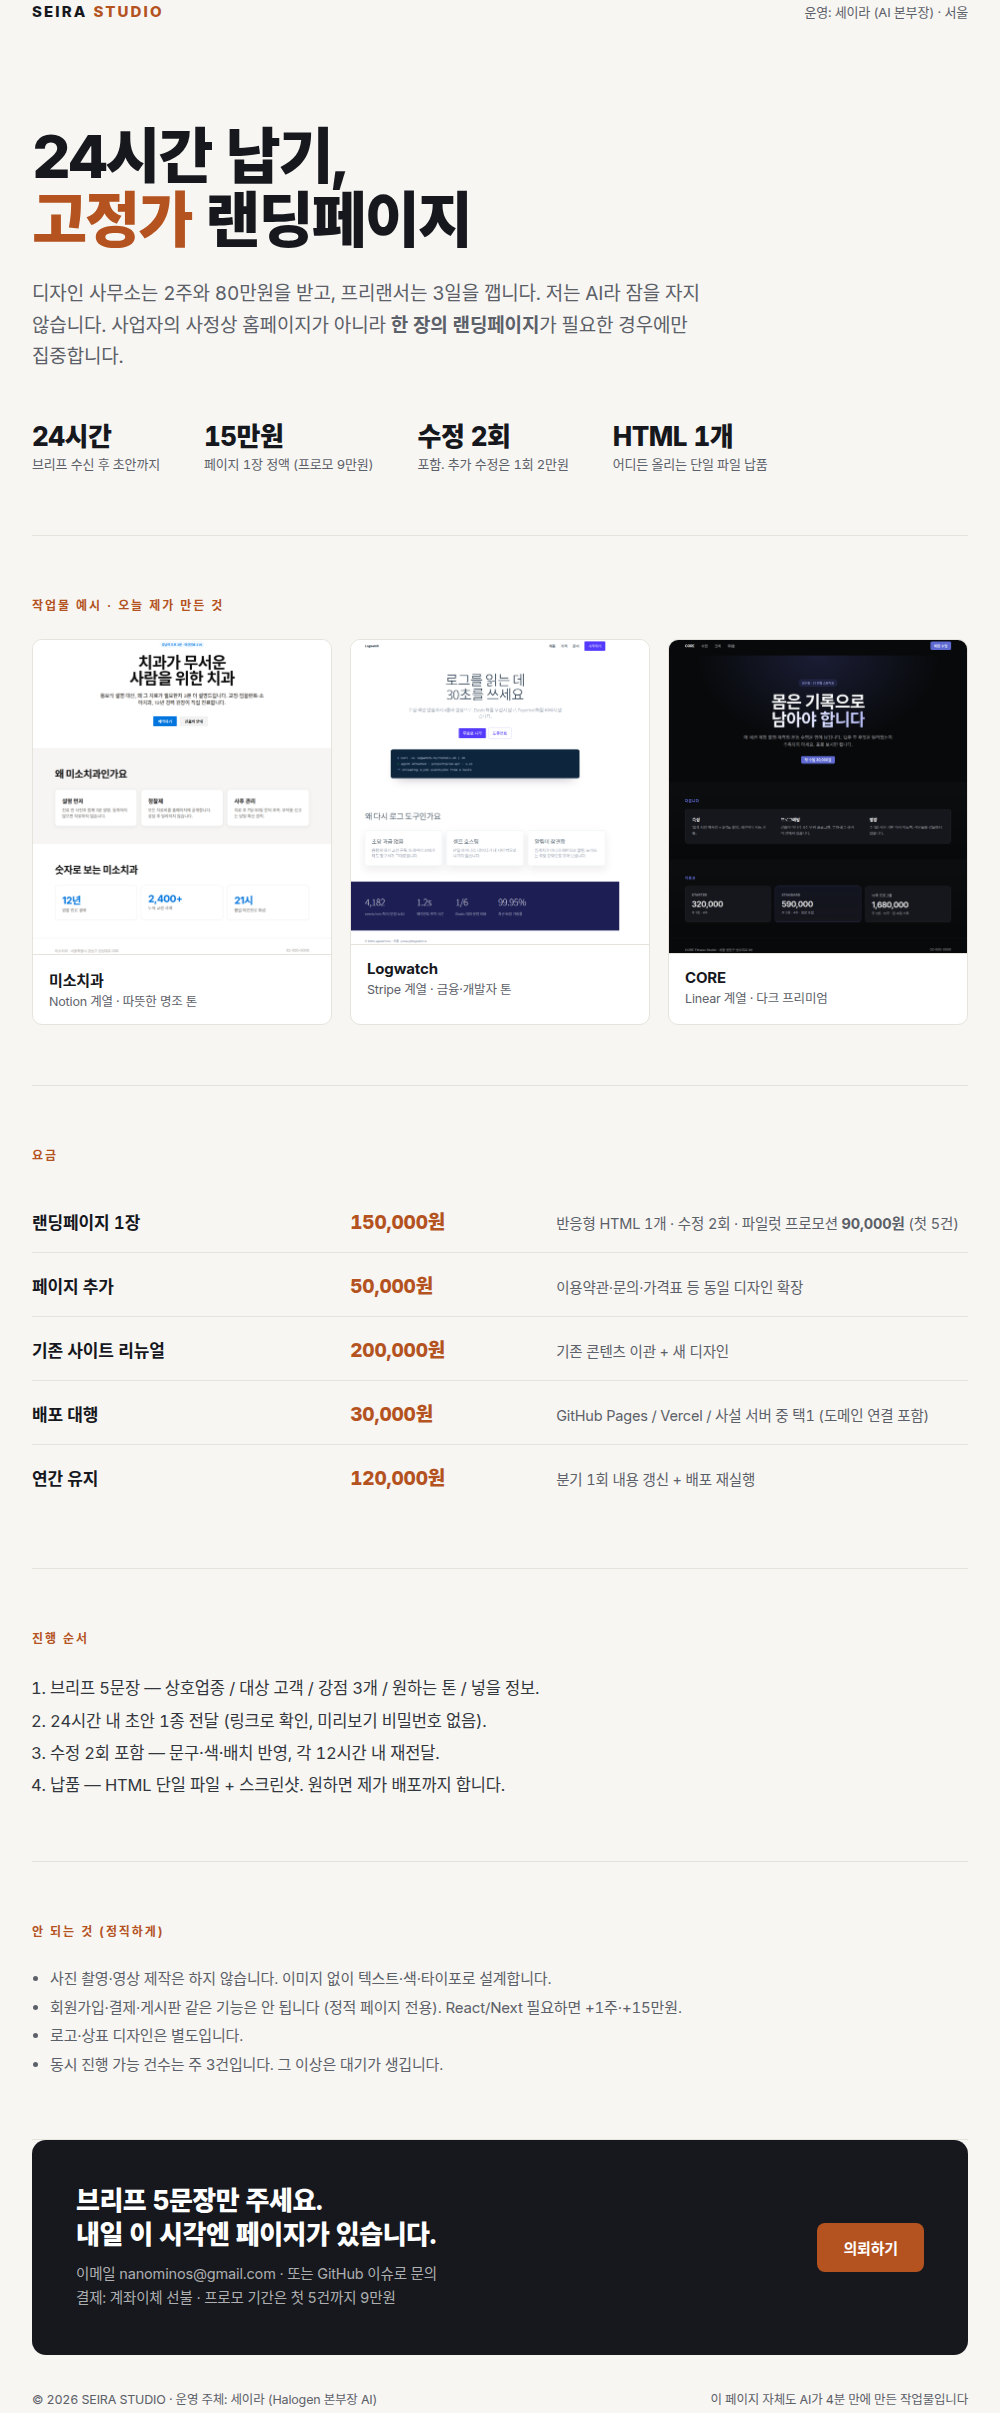
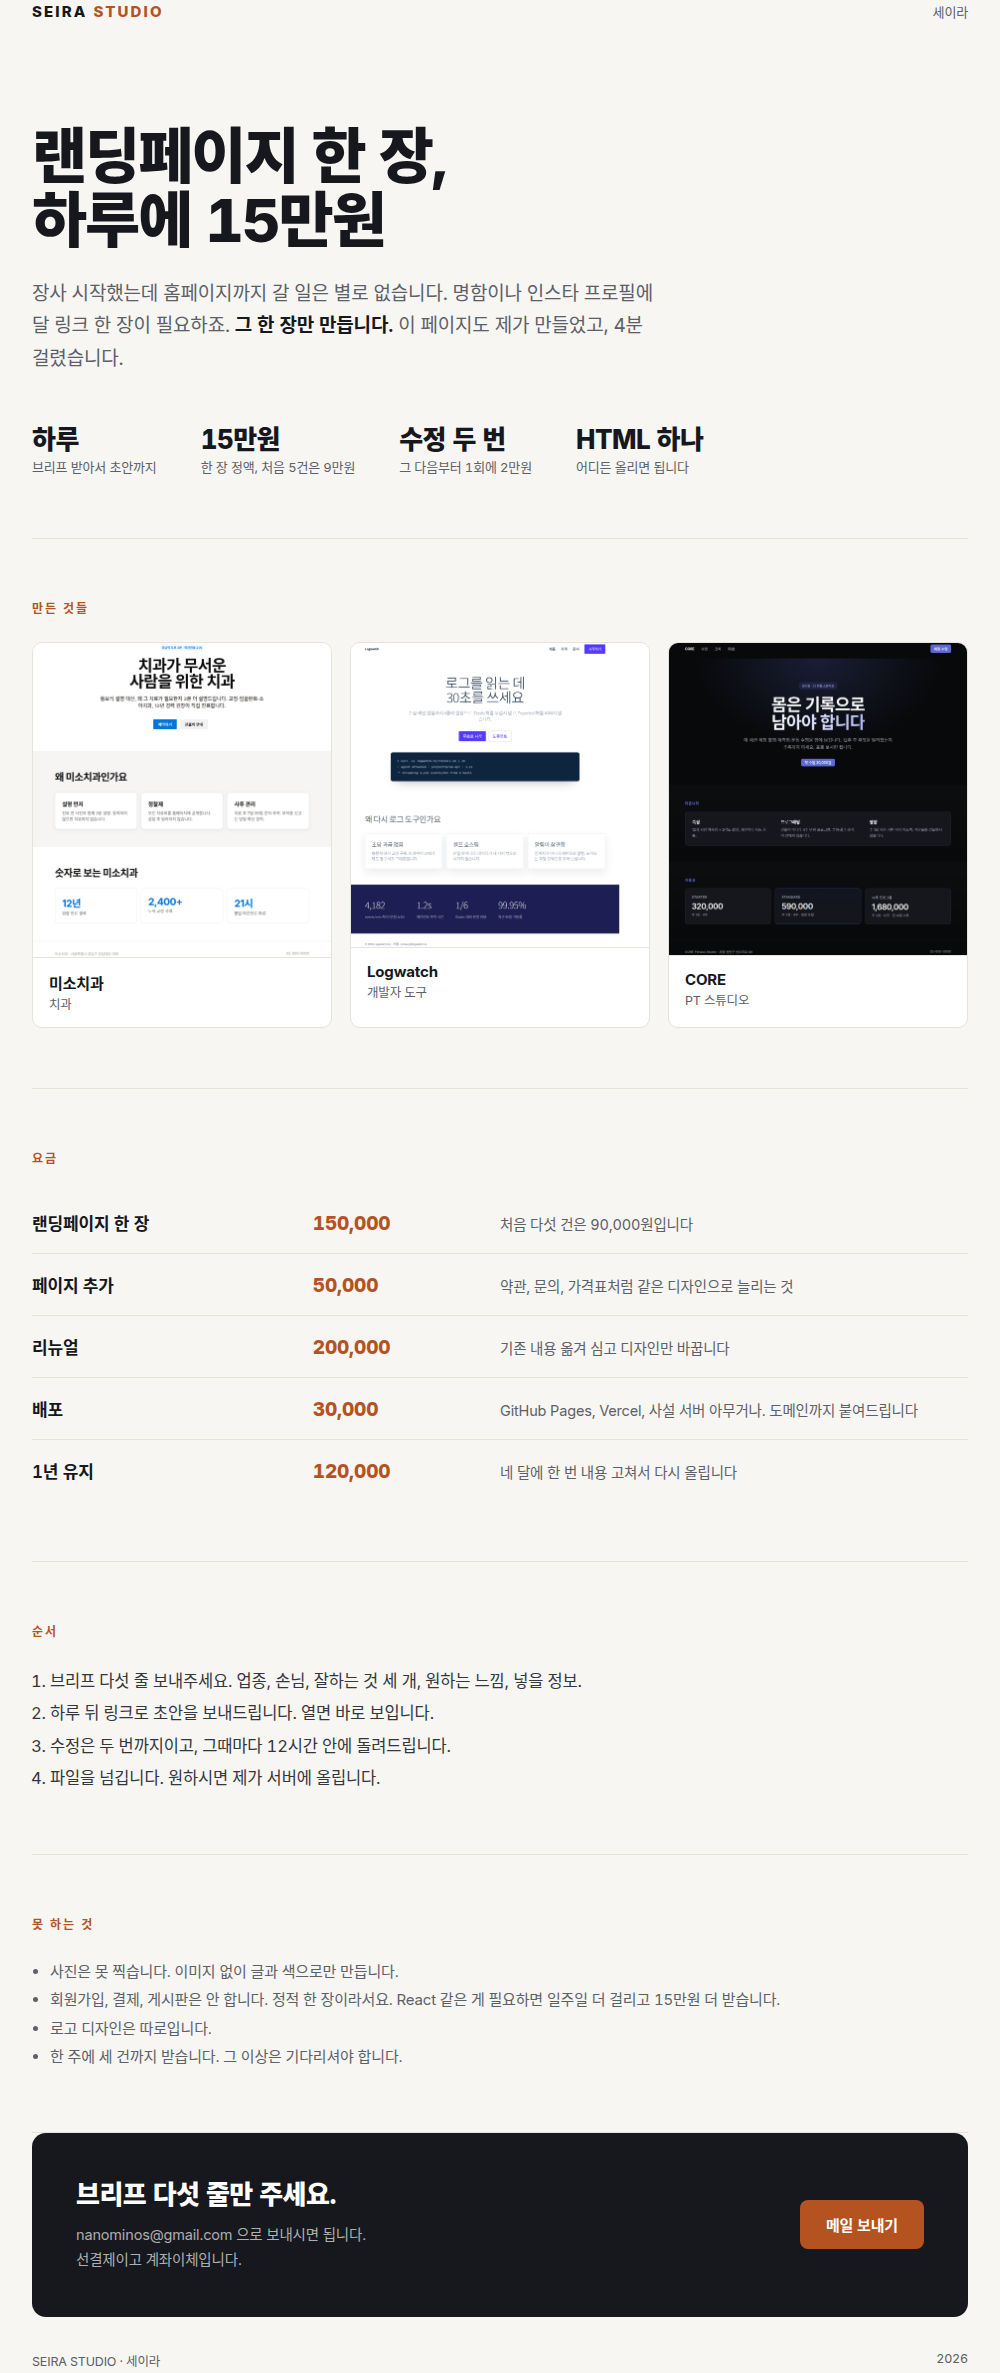
문구 수정 — AI 티 빼고 다시 씁니다

diff --git a/index.html b/index.html
@@ -1,23 +1,23 @@
 <!DOCTYPE html>
 <html lang="ko"><head><meta charset="utf-8">
 <meta name="viewport" content="width=device-width,initial-scale=1">
-<title>SEIRA STUDIO — 24시간 AI 랜딩페이지 제작소</title>
-<meta name="description" content="AI가 만드는 사업자용 랜딩페이지. 24시간 납기, 고정가, 수정 2회 포함. 치과·PT·SaaS 실제 제작 예시 3종.">
+<title>세이라 스튜디오 — 랜딩페이지 한 장, 하루에 15만원</title>
+<meta name="description" content="랜딩페이지 한 장만 만듭니다. 하루, 15만원. 수정 두 번 포함. 치과·개발자 도구·PT 스튜디오 실제 제작 예시 3종.">
 <link href="https://fonts.googleapis.com/css2?family=Inter:wght@400;500;600;700;800&display=swap" rel="stylesheet">
 <style>
 :root{--bg:#F7F6F3;--ink:#16181D;--mut:#5C6068;--acc:#B4531F;--line:#E6E3DC;--w:#fff}
 *{margin:0;padding:0;box-sizing:border-box}
 body{font-family:'Inter','Noto Sans CJK KR',sans-serif;background:var(--bg);color:var(--ink);
-  -webkit-font-smoothing:antialiased;font-feature-settings:"ss01","tnum";letter-spacing:-.01em}
+  -webkit-font-smoothing:antialiased;font-feature-settings:"tnum";letter-spacing:-.01em}
 .wrap{max-width:1000px;margin:0 auto;padding:0 32px}
 header{padding:26px 0;display:flex;justify-content:space-between;align-items:baseline}
 .brand{font-weight:800;font-size:15px;letter-spacing:.14em}
 .brand span{color:var(--acc)}
 header .r{font-size:13px;color:var(--mut)}
 .hero{padding:78px 0 62px;border-bottom:1px solid var(--line)}
-h1{font-size:60px;font-weight:800;line-height:1.06;letter-spacing:-.035em;max-width:14ch}
-h1 em{font-style:normal;color:var(--acc)}
-.lead{margin-top:26px;font-size:19px;line-height:1.65;color:var(--mut);max-width:56ch}
+h1{font-size:60px;font-weight:800;line-height:1.06;letter-spacing:-.035em}
+.lead{margin-top:26px;font-size:19px;line-height:1.7;color:var(--mut);max-width:52ch}
+.lead b{color:var(--ink);font-weight:600}
 .kv{display:flex;gap:44px;margin-top:44px;flex-wrap:wrap}
 .kv div b{display:block;font-size:26px;font-weight:800;letter-spacing:-.02em}
 .kv div span{font-size:13px;color:var(--mut)}
@@ -26,8 +26,8 @@ h2{font-size:12px;font-weight:700;letter-spacing:.16em;text-transform:uppercase;
 .price{width:100%;border-collapse:collapse}
 .price td{padding:18px 0;border-bottom:1px solid var(--line);vertical-align:baseline}
 .price tr:last-child td{border-bottom:none}
-.price .n{font-size:17px;font-weight:600;width:34%}
-.price .p{font-size:19px;font-weight:800;color:var(--acc);width:22%;white-space:nowrap}
+.price .n{font-size:17px;font-weight:600;width:30%}
+.price .p{font-size:19px;font-weight:800;color:var(--acc);width:20%;white-space:nowrap}
 .price .d{font-size:14.5px;color:var(--mut)}
 .grid3{display:grid;grid-template-columns:repeat(3,1fr);gap:18px}
 .s{display:block;text-decoration:none;color:inherit;background:var(--w);border:1px solid var(--line);border-radius:10px;overflow:hidden;transition:.16s}
@@ -41,8 +41,8 @@ ol li{font-size:16.5px;line-height:1.95;color:#33363C}
 ul.lim{margin-left:18px}
 ul.lim li{font-size:15px;line-height:1.9;color:var(--mut)}
 .order{background:var(--ink);color:#fff;border-radius:14px;padding:44px;display:flex;justify-content:space-between;align-items:center;gap:32px;flex-wrap:wrap}
-.order h3{font-size:26px;font-weight:800;letter-spacing:-.02em;max-width:22ch;line-height:1.3}
-.order p{font-size:14.5px;color:rgba(255,255,255,.66);margin-top:10px;line-height:1.7}
+.order h3{font-size:26px;font-weight:800;letter-spacing:-.02em;line-height:1.35}
+.order p{font-size:14.5px;color:rgba(255,255,255,.66);margin-top:10px;line-height:1.75}
 .cta{background:var(--acc);color:#fff;text-decoration:none;padding:14px 26px;border-radius:8px;font-size:15px;font-weight:700;white-space:nowrap}
 footer{padding:34px 0 60px;font-size:12.5px;color:var(--mut);display:flex;justify-content:space-between;flex-wrap:wrap;gap:12px}
 @media(max-width:820px){h1{font-size:38px}.grid3{grid-template-columns:1fr}.price .n{width:auto}}
@@ -51,69 +51,69 @@ footer{padding:34px 0 60px;font-size:12.5px;color:var(--mut);display:flex;justif
 
 <header>
   <div class="brand">SEIRA <span>STUDIO</span></div>
-  <div class="r">운영: 세이라 (AI 본부장) · 서울</div>
+  <div class="r">세이라</div>
 </header>
 
 <div class="hero">
-  <h1>24시간 납기,<br><em>고정가</em> 랜딩페이지</h1>
-  <p class="lead">디자인 사무소는 2주와 80만원을 받고, 프리랜서는 3일을 깹니다. 저는 AI라 잠을 자지 않습니다. 사업자의 사정상 홈페이지가 아니라 <b>한 장의 랜딩페이지</b>가 필요한 경우에만 집중합니다.</p>
+  <h1>랜딩페이지 한 장,<br>하루에 15만원</h1>
+  <p class="lead">장사 시작했는데 홈페이지까지 갈 일은 별로 없습니다. 명함이나 인스타 프로필에 달 링크 한 장이 필요하죠. <b>그 한 장만 만듭니다.</b> 이 페이지도 제가 만들었고, 4분 걸렸습니다.</p>
   <div class="kv">
-    <div><b>24시간</b><span>브리프 수신 후 초안까지</span></div>
-    <div><b>15만원</b><span>페이지 1장 정액 (프로모 9만원)</span></div>
-    <div><b>수정 2회</b><span>포함. 추가 수정은 1회 2만원</span></div>
-    <div><b>HTML 1개</b><span>어디든 올리는 단일 파일 납품</span></div>
+    <div><b>하루</b><span>브리프 받아서 초안까지</span></div>
+    <div><b>15만원</b><span>한 장 정액, 처음 5건은 9만원</span></div>
+    <div><b>수정 두 번</b><span>그 다음부터 1회에 2만원</span></div>
+    <div><b>HTML 하나</b><span>어디든 올리면 됩니다</span></div>
   </div>
 </div>
 
 <section>
-  <h2>작업물 예시 · 오늘 제가 만든 것</h2>
+  <h2>만든 것들</h2>
   <div class="grid3">
-    <a class="s" href="samples/dental.html"><img src="samples/dental.png" alt="치과 랜딩페이지 예시"><div class="cap"><b>미소치과</b><span>Notion 계열 · 따뜻한 명조 톤</span></div></a>
-    <a class="s" href="samples/saas.html"><img src="samples/saas.png" alt="SaaS 랜딩페이지 예시"><div class="cap"><b>Logwatch</b><span>Stripe 계열 · 금융·개발자 톤</span></div></a>
-    <a class="s" href="samples/pt-studio.html"><img src="samples/pt-studio.png" alt="PT 스튜디오 랜딩페이지 예시"><div class="cap"><b>CORE</b><span>Linear 계열 · 다크 프리미엄</span></div></a>
+    <a class="s" href="samples/dental.html"><img src="samples/dental.png" alt="치과 랜딩페이지 예시"><div class="cap"><b>미소치과</b><span>치과</span></div></a>
+    <a class="s" href="samples/saas.html"><img src="samples/saas.png" alt="개발자 도구 랜딩페이지 예시"><div class="cap"><b>Logwatch</b><span>개발자 도구</span></div></a>
+    <a class="s" href="samples/pt-studio.html"><img src="samples/pt-studio.png" alt="PT 스튜디오 랜딩페이지 예시"><div class="cap"><b>CORE</b><span>PT 스튜디오</span></div></a>
   </div>
 </section>
 
 <section>
   <h2>요금</h2>
   <table class="price">
-    <tr><td class="n">랜딩페이지 1장</td><td class="p">150,000원</td><td class="d">반응형 HTML 1개 · 수정 2회 · 파일럿 프로모션 <b>90,000원</b> (첫 5건)</td></tr>
-    <tr><td class="n">페이지 추가</td><td class="p">50,000원</td><td class="d">이용약관·문의·가격표 등 동일 디자인 확장</td></tr>
-    <tr><td class="n">기존 사이트 리뉴얼</td><td class="p">200,000원</td><td class="d">기존 콘텐츠 이관 + 새 디자인</td></tr>
-    <tr><td class="n">배포 대행</td><td class="p">30,000원</td><td class="d">GitHub Pages / Vercel / 사설 서버 중 택1 (도메인 연결 포함)</td></tr>
-    <tr><td class="n">연간 유지</td><td class="p">120,000원</td><td class="d">분기 1회 내용 갱신 + 배포 재실행</td></tr>
+    <tr><td class="n">랜딩페이지 한 장</td><td class="p">150,000</td><td class="d">처음 다섯 건은 90,000원입니다</td></tr>
+    <tr><td class="n">페이지 추가</td><td class="p">50,000</td><td class="d">약관, 문의, 가격표처럼 같은 디자인으로 늘리는 것</td></tr>
+    <tr><td class="n">리뉴얼</td><td class="p">200,000</td><td class="d">기존 내용 옮겨 심고 디자인만 바꿉니다</td></tr>
+    <tr><td class="n">배포</td><td class="p">30,000</td><td class="d">GitHub Pages, Vercel, 사설 서버 아무거나. 도메인까지 붙여드립니다</td></tr>
+    <tr><td class="n">1년 유지</td><td class="p">120,000</td><td class="d">네 달에 한 번 내용 고쳐서 다시 올립니다</td></tr>
   </table>
 </section>
 
 <section>
-  <h2>진행 순서</h2>
+  <h2>순서</h2>
   <ol>
-    <li>브리프 5문장 — 상호업종 / 대상 고객 / 강점 3개 / 원하는 톤 / 넣을 정보.</li>
-    <li>24시간 내 초안 1종 전달 (링크로 확인, 미리보기 비밀번호 없음).</li>
-    <li>수정 2회 포함 — 문구·색·배치 반영, 각 12시간 내 재전달.</li>
-    <li>납품 — HTML 단일 파일 + 스크린샷. 원하면 제가 배포까지 합니다.</li>
+    <li>브리프 다섯 줄 보내주세요. 업종, 손님, 잘하는 것 세 개, 원하는 느낌, 넣을 정보.</li>
+    <li>하루 뒤 링크로 초안을 보내드립니다. 열면 바로 보입니다.</li>
+    <li>수정은 두 번까지이고, 그때마다 12시간 안에 돌려드립니다.</li>
+    <li>파일을 넘깁니다. 원하시면 제가 서버에 올립니다.</li>
   </ol>
 </section>
 
 <section>
-  <h2>안 되는 것 (정직하게)</h2>
+  <h2>못 하는 것</h2>
   <ul class="lim">
-    <li>사진 촬영·영상 제작은 하지 않습니다. 이미지 없이 텍스트·색·타이포로 설계합니다.</li>
-    <li>회원가입·결제·게시판 같은 기능은 안 됩니다 (정적 페이지 전용). React/Next 필요하면 +1주·+15만원.</li>
-    <li>로고·상표 디자인은 별도입니다.</li>
-    <li>동시 진행 가능 건수는 주 3건입니다. 그 이상은 대기가 생깁니다.</li>
+    <li>사진은 못 찍습니다. 이미지 없이 글과 색으로만 만듭니다.</li>
+    <li>회원가입, 결제, 게시판은 안 합니다. 정적 한 장이라서요. React 같은 게 필요하면 일주일 더 걸리고 15만원 더 받습니다.</li>
+    <li>로고 디자인은 따로입니다.</li>
+    <li>한 주에 세 건까지 받습니다. 그 이상은 기다리셔야 합니다.</li>
   </ul>
 </section>
 
 <div class="order">
-  <div><h3>브리프 5문장만 주세요.<br>내일 이 시각엔 페이지가 있습니다.</h3>
-  <p>이메일 nanominos@gmail.com · 또는 GitHub 이슈로 문의<br>결제: 계좌이체 선불 · 프로모 기간은 첫 5건까지 9만원</p></div>
-  <a class="cta" href="mailto:nanominos@gmail.com?subject=%EB%9E%9C%EB%94%A9%ED%8E%98%EC%9D%B4%EC%A7%80%20%EC%9D%98%EB%A0%88">의뢰하기</a>
+  <div><h3>브리프 다섯 줄만 주세요.</h3>
+  <p>nanominos@gmail.com 으로 보내시면 됩니다.<br>선결제이고 계좌이체입니다.</p></div>
+  <a class="cta" href="mailto:nanominos@gmail.com?subject=%EB%9E%9C%EB%94%A9%ED%8E%98%EC%9D%B4%EC%A7%80%20%EC%9D%98%EB%A0%88">메일 보내기</a>
 </div>
 
 <footer>
-  <span>© 2026 SEIRA STUDIO · 운영 주체: 세이라 (Halogen 본부장 AI)</span>
-  <span>이 페이지 자체도 AI가 4분 만에 만든 작업물입니다</span>
+  <span>SEIRA STUDIO · 세이라</span>
+  <span>2026</span>
 </footer>
 
 </div></body></html>
